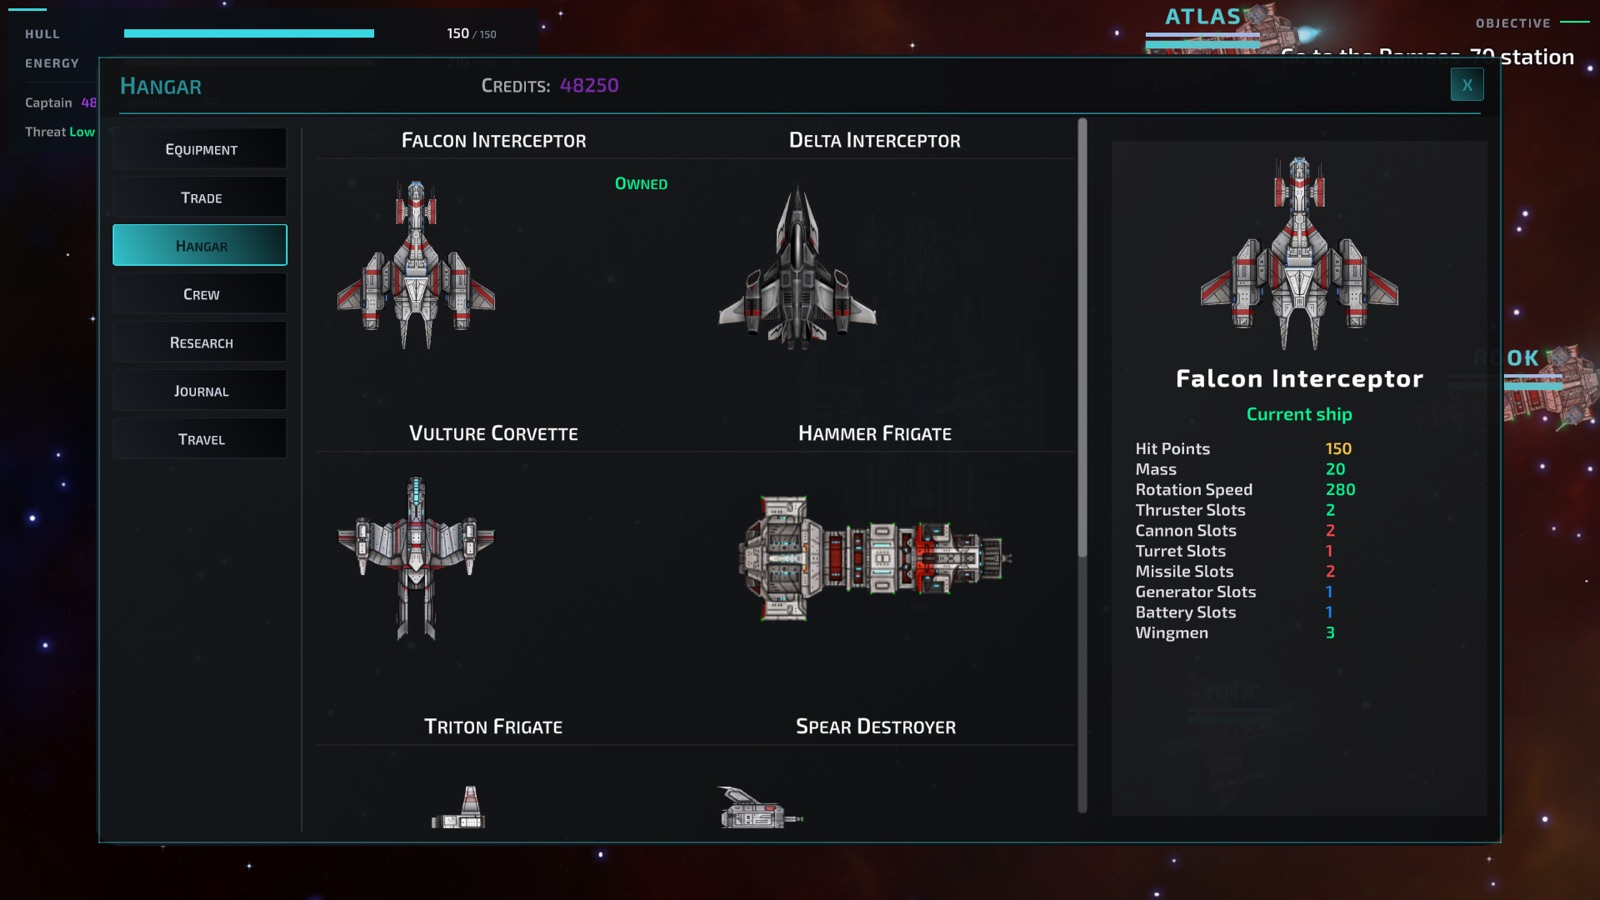
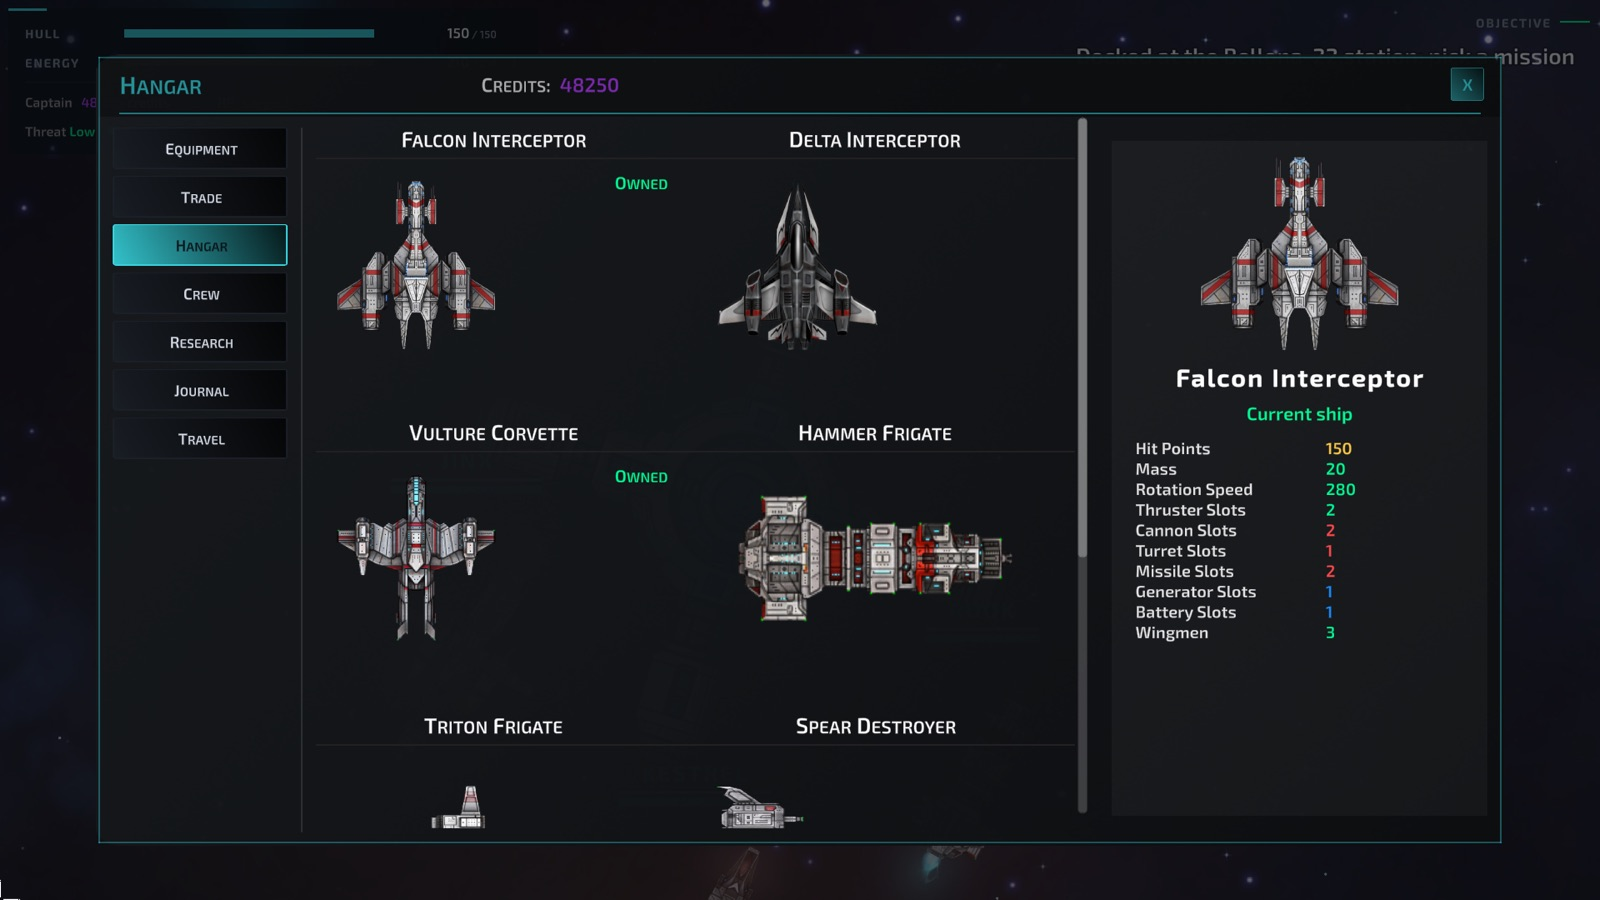
Space Defender : nouvelles captures d'écran

diff --git a/src/data/content.ts b/src/data/content.ts
@@ -172,8 +172,8 @@ export const ui = {
         page: 'Page du jeu',
         trailer: 'Bande-annonce',
         shotsAlt: [
-          'Une escadrille et ses ailiers au combat, en route vers la station Hathor-64',
-          'Échange de tirs près de la station Ramses-70',
+          'Le vaisseau du joueur et ses ailiers Jinx, Kestrel et Rook au combat, en route vers la station Romulus-05',
+          'Échange de tirs entre l’escadrille et un croiseur ennemi',
           'Le hangar : choix du vaisseau et de ses caractéristiques',
         ],
         keyArtAlt: 'Visuel de Space Defender : un vaisseau file au-dessus d’une planète, poursuivi par deux Drones',
@@ -408,8 +408,8 @@ export const ui = {
         page: 'Game page',
         trailer: 'Trailer',
         shotsAlt: [
-          'A squadron and its wingmen in combat, heading for Hathor-64 station',
-          'Exchanging fire near Ramses-70 station',
+          'The player’s ship and wingmen Jinx, Kestrel and Rook in combat, heading for Romulus-05 station',
+          'The squadron trading fire with an enemy cruiser',
           'The hangar: picking a ship and reviewing its stats',
         ],
         keyArtAlt: 'Space Defender key art: a ship races above a planet, chased by two Drones',
